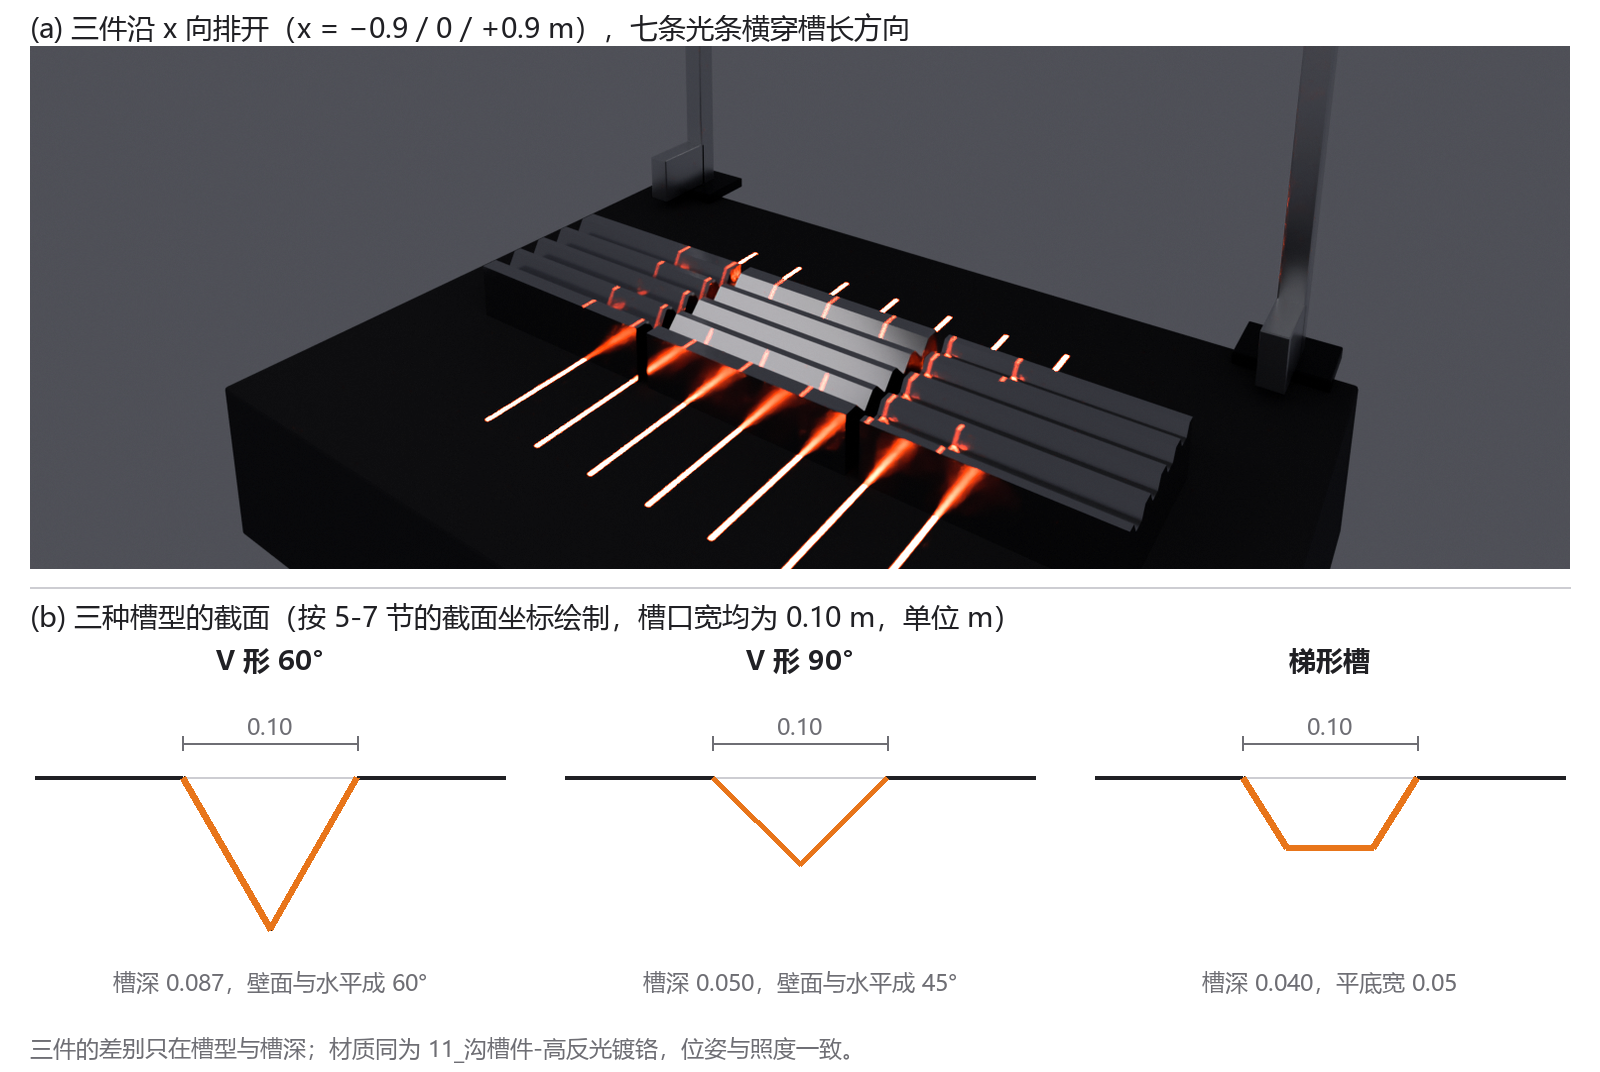
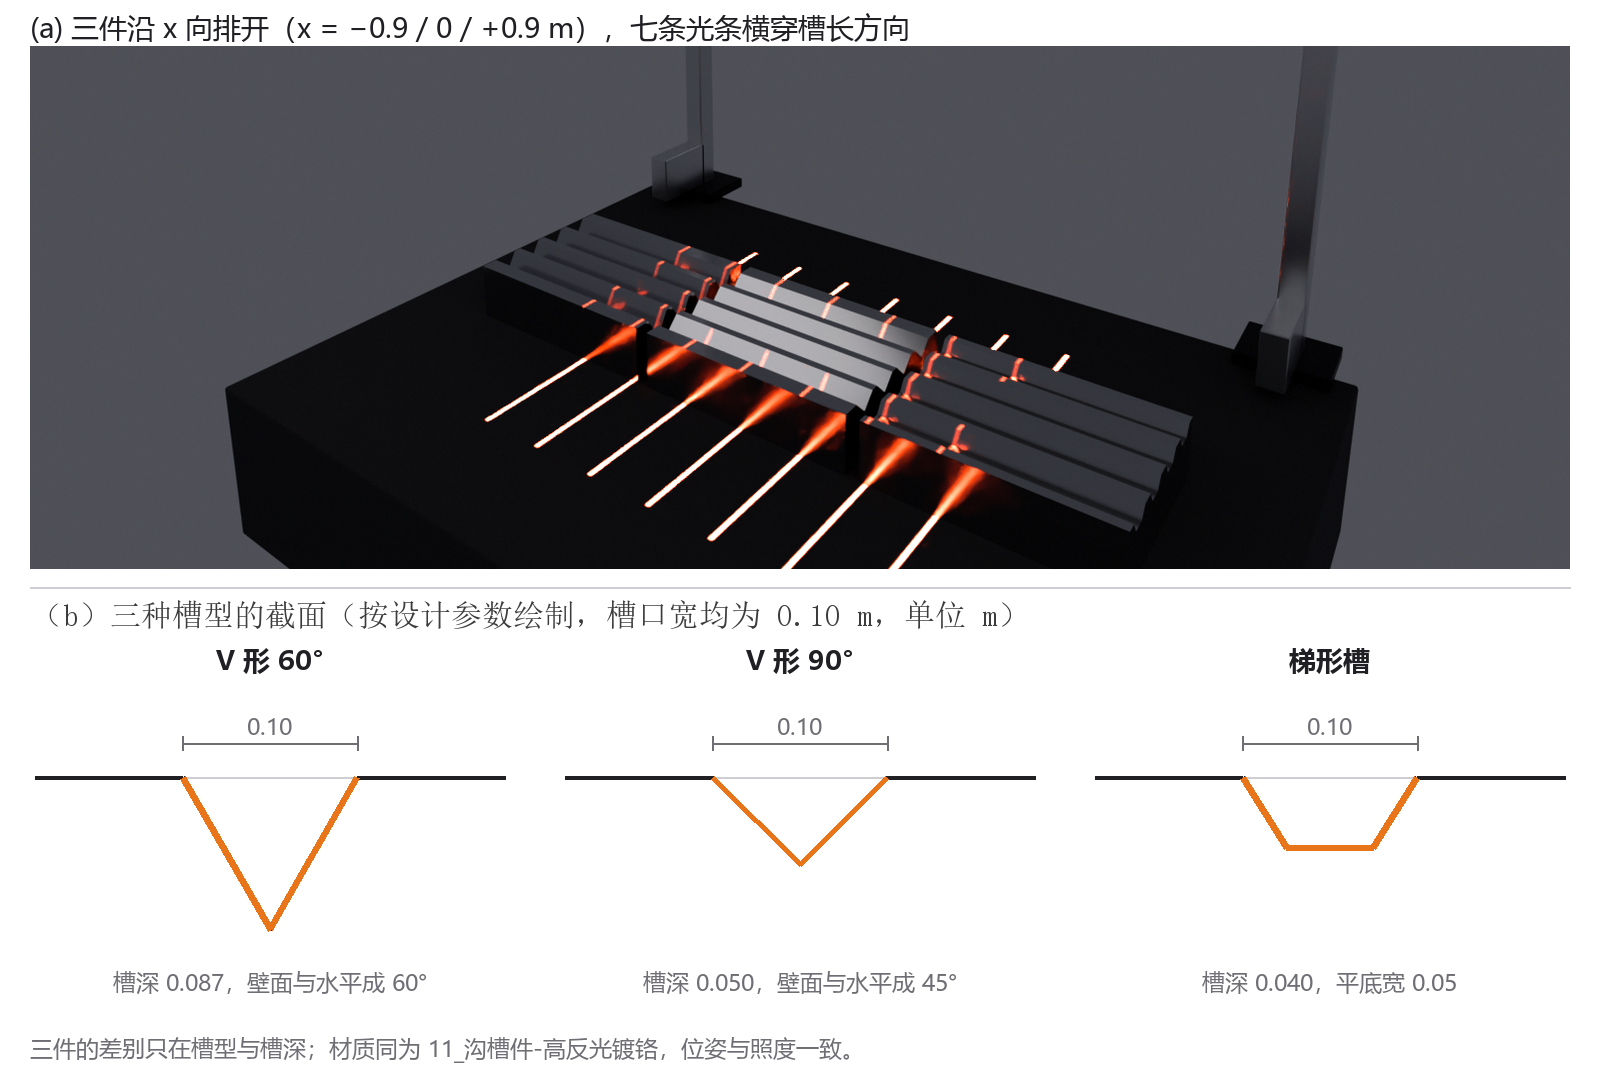
hw4: 修正图7标注(去掉失效章节引用)、相机分辨率与幅面口径统一为1600×1200/2.00×1.50

Changed region(s): [[0.0, 0.5541, 0.625, 0.5849]]

diff --git a/hw4-multi-line-structured-light/docs/system-design.md b/hw4-multi-line-structured-light/docs/system-design.md
@@ -10,7 +10,7 @@
 | 工作距离 L | 2.835 m | 光心到台面的铅垂距离 |
 | 相机倾角 | 绕 Y 轴 14.52° | 光轴前倾，视线中心落在试板带中线；铅垂向下会把 1.5 m 宽的试板带切掉一半 |
 | 三角角 θ | 27.9° | 由 b 与 L 决定 |
-| 单帧幅面 | 2.03 m × 1.54 m | 由焦距、靶面与工作距离决定 |
+| 单帧幅面 | 2.00 m × 1.50 m | 由焦距、靶面与工作距离决定 |
 | 多线覆盖 | 1.5 m（7 线，线距 250 mm） | 与幅面配合可覆盖 2 m 级构件 |
 
 几何关系（针孔模型）：
@@ -29,7 +29,7 @@
 
 | 部件 | 型号（示例） | 关键参数 | 功能参数 |
 |---|---|---|---|
-| 工业相机 | Basler acA1600-20gm | 1628×1236、4.4 µm、1/1.8″ CCD、GigE、20 fps | 外触发、全局曝光、ROI 开窗 |
+| 工业相机 | Basler acA1600-20gm | 1600×1200（有效像素）、4.4 µm、1/1.8″ CCD、GigE、20 fps | 外触发、全局曝光、ROI 开窗 |
 | 镜头 | 10 mm 定焦工业镜头 | f = 10 mm、靶面 7.2 mm（适配方式：水平） | 手动光圈/对焦，调好锁定 |
 | 多线投射器 | 650 nm 线激光 + 7 束 DOE | 7 线、线距 250 mm、发散 0.004 rad、线宽约 2 cm | 线数与线距由 DOE 固定，功率可调 |
 | 滤光片 | 650±10 nm 窄带 | 与激光波长匹配，抑制环境光 | 硬膜、可拆卸 |
@@ -39,7 +39,7 @@
 
 | 指标 | 数值 |
 |---|---|
-| 单帧幅面 | 2.03 m × 1.54 m |
+| 单帧幅面 | 2.00 m × 1.50 m |
 | 横向分辨率 | 1.25—1.28 mm/px |
 | 深度灵敏度 | 2.36—2.42 mm/px（亚像素后约 0.24 mm） |
 | 多线覆盖 | 7 线 × 250 mm = 1.5 m |
